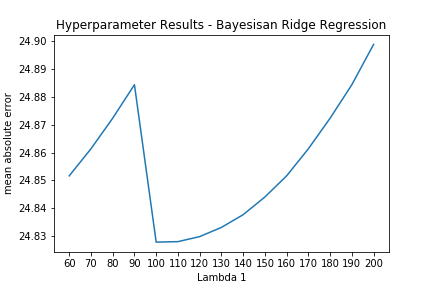
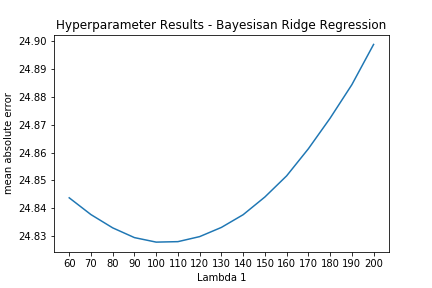
tweak to code

diff --git a/Assignment 2/TrafficPlotter.py b/Assignment 2/TrafficPlotter.py
@@ -34,7 +34,7 @@ step = 0
 fill_list = [0,0,0,0,0,0,0,0,0,0,0,0,0,0,0]
 for params in cv_results['params']:
     for val in range(60, 201, 10):
-        if str(val) in params:
+        if (': ' + str(val)) in params:
             fill_list[int((val-60)/10)] = cv_results['mean_validation_score'][step]*-1
     step+=1
         
